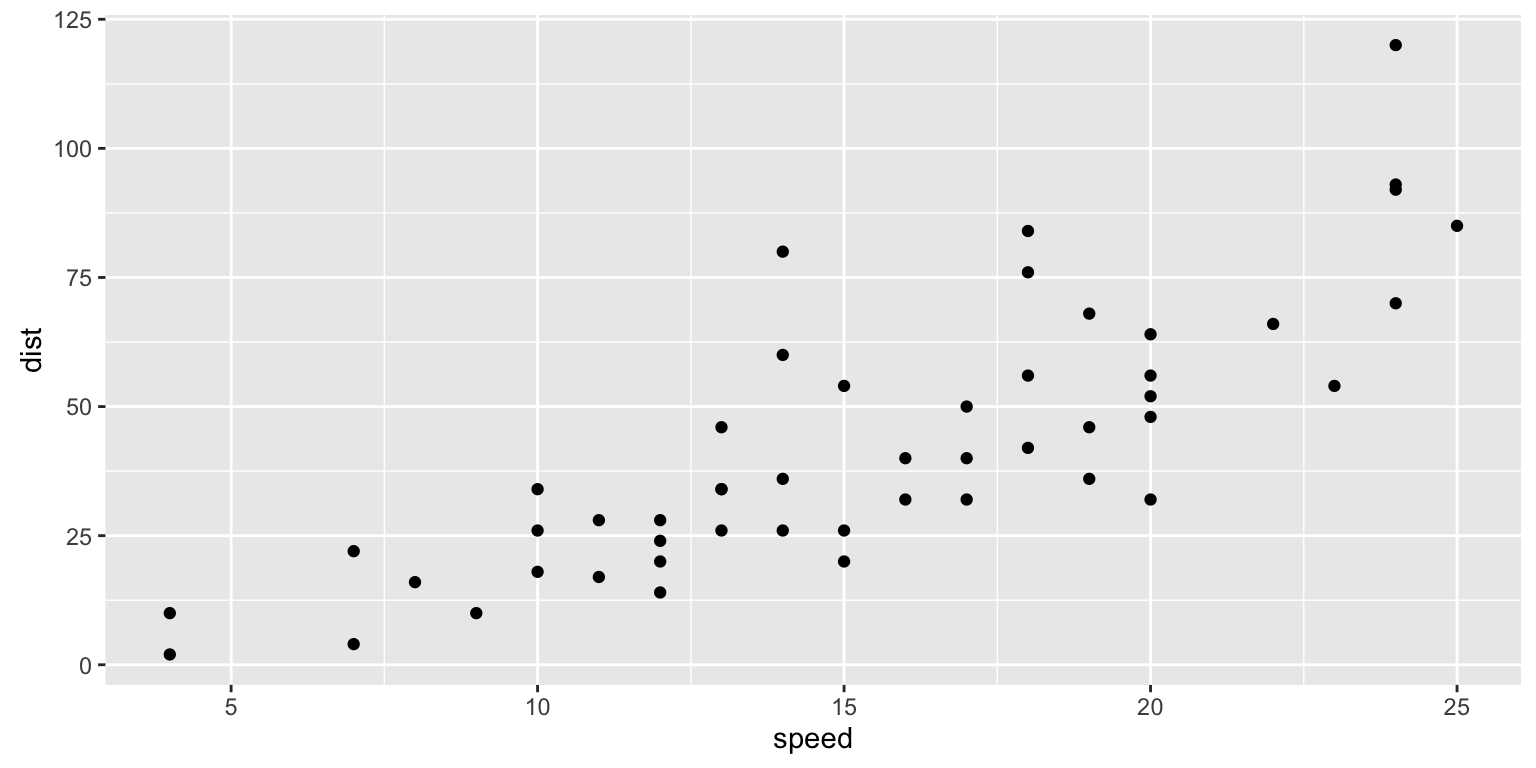
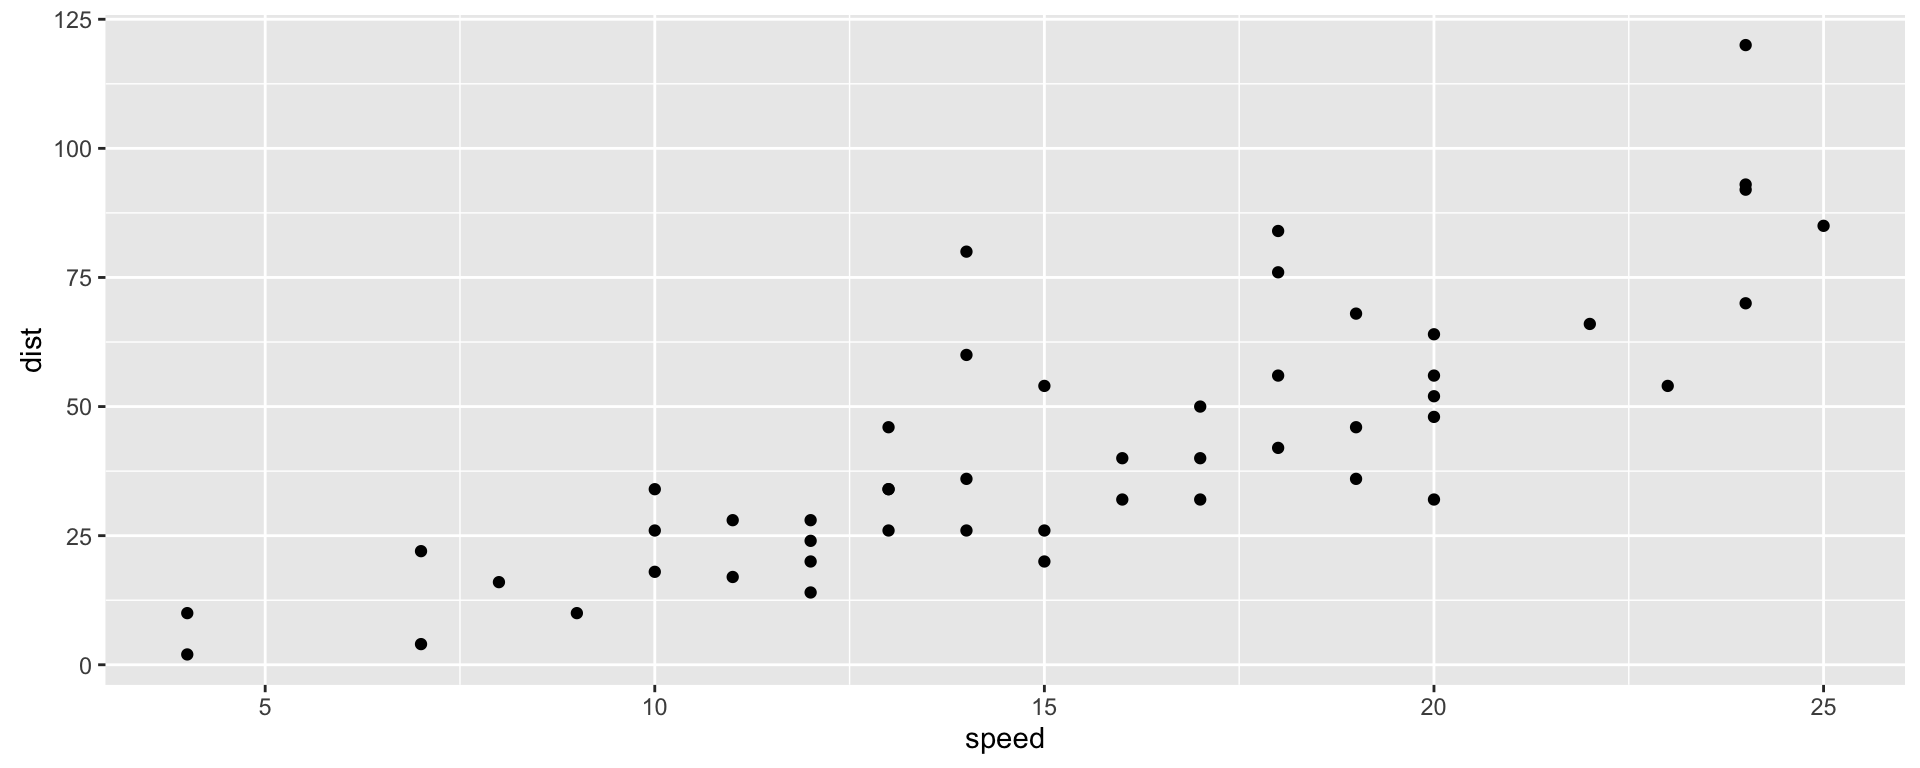
add code folding

diff --git a/blog_ggplot2_intro.html b/blog_ggplot2_intro.html
@@ -160,6 +160,15 @@ $(document).ready(function () {
 </script>
 
 <!-- code folding -->
+<style type="text/css">
+.code-folding-btn { margin-bottom: 4px; }
+</style>
+<script src="site_libs/navigation-1.1/codefolding.js"></script>
+<script>
+$(document).ready(function () {
+  window.initializeCodeFolding("hide" === "show");
+});
+</script>
 
 
 
@@ -202,6 +211,14 @@ $(document).ready(function () {
 
 <div class="fluid-row" id="header">
 
+<div class="btn-group pull-right">
+<button type="button" class="btn btn-default btn-xs dropdown-toggle" data-toggle="dropdown" aria-haspopup="true" aria-expanded="false"><span>Code</span> <span class="caret"></span></button>
+<ul class="dropdown-menu" style="min-width: 50px;">
+<li><a id="rmd-show-all-code" href="#">Show All Code</a></li>
+<li><a id="rmd-hide-all-code" href="#">Hide All Code</a></li>
+</ul>
+</div>
+
 
 
 <h1 class="title toc-ignore"><center>
@@ -220,16 +237,21 @@ September 18, 2016
 <p>No matter what level of R Programmer you are, you likely struggle to remember every single intricate detail required by ggplot2. It has a steep learning curve compared to base R’s plotting functions, but once you learn to use it, it can produce production level graphics. This post will serve as a quick reference guide to ggplot2. The idea is that it can quickly give an example of the code and output for each type of plot you might need.</p>
 <center>
 <h1>
-Line Graph
+Scatter Plots
 </h1>
 </center>
-<p>Ugly Plot</p>
+<p>I often need scatter plots to show relationships between data. Let’s look at a quick example of the benefits of ggplot vs base R.</p>
+<center>
+Ugly Plot
+</center>
 <pre class="r"><code>plot(cars)</code></pre>
 <p><img src="blog_ggplot2_intro_files/figure-html/unnamed-chunk-1-1.png" width="672" /></p>
-<p>Pretty Plot</p>
+<center>
+Pretty Plot
+</center>
 <pre class="r"><code>library(ggplot2)
 qplot(data=cars,x=speed,y=dist,geom=&quot;point&quot;)</code></pre>
-<p><img src="blog_ggplot2_intro_files/figure-html/unnamed-chunk-2-1.png" width="768" /></p>
+<p><img src="blog_ggplot2_intro_files/figure-html/unnamed-chunk-2-1.png" width="960" /></p>
 
 
 
